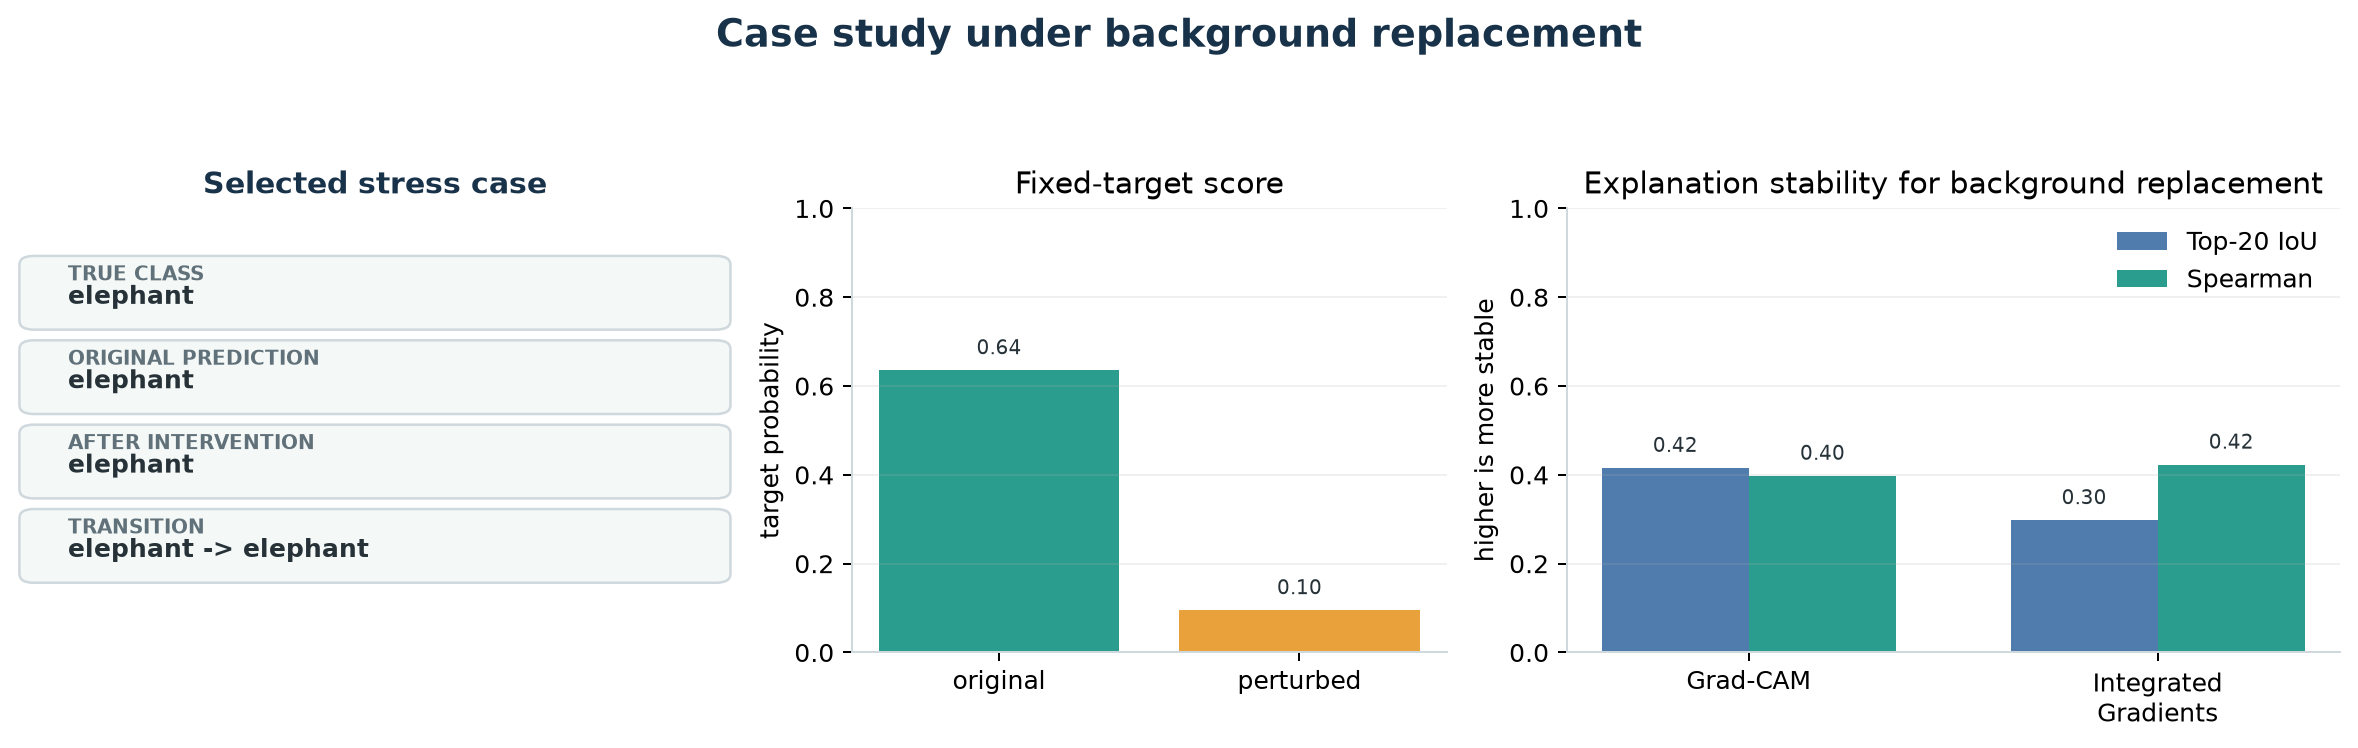
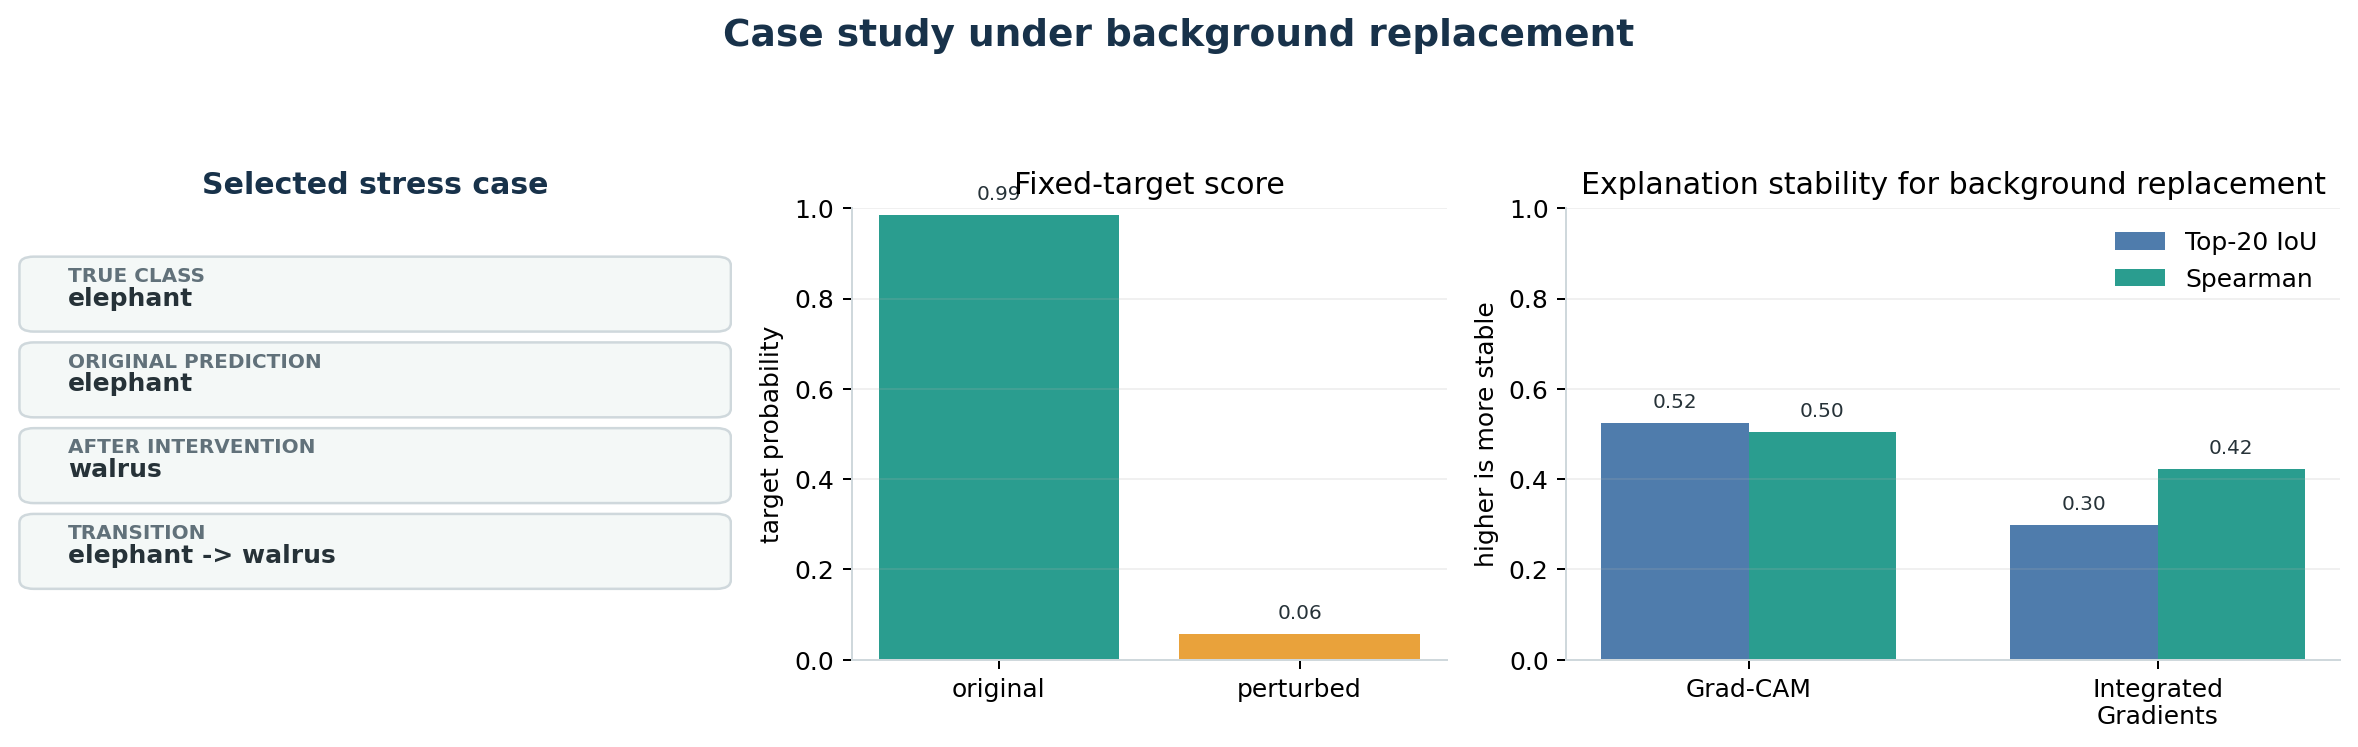
another fix

diff --git a/docs/intuitive_explainability.html b/docs/intuitive_explainability.html
@@ -2520,9 +2520,8 @@
             </div>
             <figure>
               <img src="assets/xai-report/stress-metric-background-replacement-case.png"
-                alt="Elephant case study for background-replacement stress." loading="lazy" decoding="async">
-              <figcaption><strong>Figure 12c</strong> - Selected elephant background-replacement case linking prediction
-                behaviour with explanation stability.</figcaption>
+                alt="Elephant case study showing elephant to walrus after background-replacement stress." loading="lazy" decoding="async">
+              <figcaption><strong>Figure 12c</strong> - Selected elephant background-replacement case showing the elephant -&gt; walrus transition and its explanation stability.</figcaption>
             </figure>
           </article>
         </div>
@@ -3131,7 +3130,7 @@
         "title": "Figure 12c - Background-replacement case study",
         "paragraphs": [
           "This elephant case study focuses on the most diagnostic stress test. Background replacement is the intervention most likely to expose reliance on contextual shortcuts because it changes the scene while trying to preserve the animal region.",
-          "The left and middle panels show whether the prediction and fixed-target probability changed. The right panel then asks whether Grad-CAM and Integrated Gradients agree that the explanation remained stable.",
+          "The left panel shows the elephant -> walrus transition, while the middle panel shows the sharp drop in the fixed elephant probability. The right panel then asks whether Grad-CAM and Integrated Gradients agree that the explanation remained stable.",
           "When prediction transition, confidence drop and saliency movement occur together, the example supports the report's central claim: post-hoc maps must be audited under interventions before being treated as evidence of model reasoning."
         ]
       },